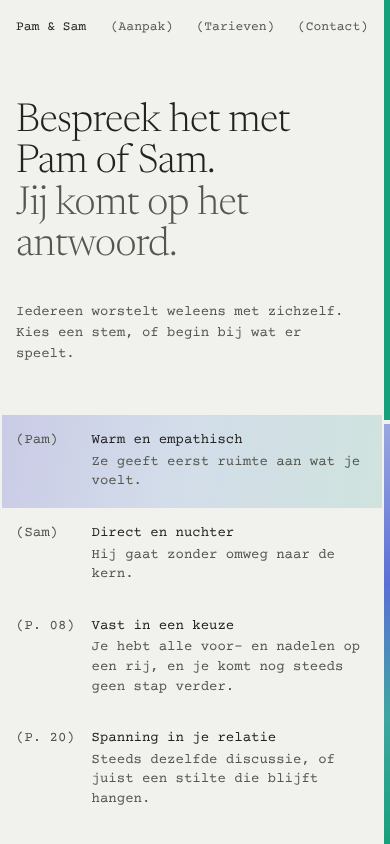
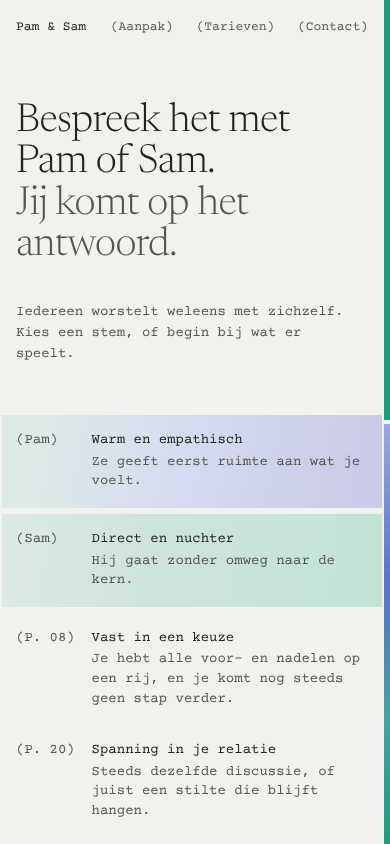
Register, tweede ronde: markeren als huisstijl, Pam en Sam gelijk, zachtere knoppen (55)
Claude-Session: https://claude.ai/code/session_01PHjJkCFpQsas3BAgmoVCiS

diff --git a/presentatie/route-katern/b-register.html b/presentatie/route-katern/b-register.html
@@ -16,8 +16,8 @@ h1.t span{display:block;color:#55574F}
 .rows{font-family:"Courier Prime",monospace;font-size:15px;line-height:1.4}
 .row{display:grid;grid-template-columns:8ch 1fr 9ch;column-gap:2ch;padding:16px 14px;margin:0 -14px}
 .row .n,.row .r{color:#55574F}.row .r{text-align:right}.row b{font-weight:400;display:block}.row span.d{color:#55574F;display:block;margin-top:2px}
-.row.mark{background:linear-gradient(100deg,#CACBE6,#D3DDEA 45%,#CFE3DE)}
-.row.go{margin-top:18px}.row.go b{background:#222321;color:#F1F1EE;display:inline-block;padding:10px 16px}
+.row.mk{margin-bottom:6px}
+.row.go{margin-top:18px}.bt{display:inline-block;font-family:"Courier Prime",monospace;font-size:15px;color:#222321;padding:11px 18px}.bt-s{border:1px solid #222321;padding:10px 17px}.bt-s span{padding:0 3px}
 .foot{position:absolute;left:5vw;bottom:4vh;font-family:"Courier Prime",monospace;font-size:12px;color:#55574F}
 /* info */
 .cols{display:grid;grid-template-columns:1fr 1fr 1fr;column-gap:3vw;margin-top:6vh}.cols p{font-family:Newsreader,serif;font-size:18px;line-height:1.6;color:#33342f}
@@ -29,16 +29,16 @@ h1.t span{display:block;color:#55574F}
 .e{display:grid;grid-template-columns:8ch 1fr;column-gap:2ch;padding:14px 14px;margin:0 -14px}.e .n{font-family:"Courier Prime",monospace;font-size:13px;color:#55574F;padding-top:5px}
 .e .v{font-size:19px;line-height:1.55}.e.v-ai .v{font-family:Newsreader,serif;color:#55574F}.sam .e.v-ai .v{font-family:"Hanken Grotesk",sans-serif;font-weight:300}
 .e.me .v{font-family:"Hanken Grotesk",sans-serif;font-weight:400;color:#222321}
-.e.now{background:linear-gradient(100deg,#CACBE6,#D3DDEA 45%,#CFE3DE)}.sam .e.now{background:linear-gradient(100deg,#DCEAE7,#CFE3DE)}
+.e.now{}
 .e.now .v{color:#222321}
 .ip{display:grid;grid-template-columns:8ch 1fr;column-gap:2ch;padding:22px 0 0}.ip .n{font-family:"Courier Prime",monospace;font-size:13px;color:#55574F;padding-top:12px}.ip .f{border-bottom:1px solid #222321;padding:10px 0;font-size:18px;color:#55574F}
-.ip .acts{grid-column:2;display:flex;justify-content:space-between;align-items:center;margin-top:16px;font-family:"Courier Prime",monospace;font-size:13px;color:#55574F}.ip .acts a.s{background:#222321;color:#F1F1EE;padding:10px 16px}
+.ip .acts{grid-column:2;display:flex;justify-content:space-between;align-items:center;margin-top:16px;font-family:"Courier Prime",monospace;font-size:13px;color:#55574F}.ip .acts .bt{font-size:13px;padding:9px 15px}.ip .acts .bt-s{padding:8px 14px}
 @media(max-width:760px){.pg{padding:20px 22px 40px 16px}.reg{grid-template-columns:1fr;margin-top:8vh}.rows{margin-top:6vh;font-size:14px}.row{grid-template-columns:8ch 1fr;column-gap:1ch}.row .r{display:none}
  .cols{grid-template-columns:1fr;row-gap:24px}.edge{width:6px}.e,.ip{grid-template-columns:1fr}.e .n,.ip .n{padding:0 0 2px}.e .v{font-size:16px}.foot{position:static;margin-top:6vh}.ip .acts{grid-column:1}}
 </style></head>
 <body data-s="home"><div class="scr" id="home"><div class="pg"><header class="hd"><b>Pam &amp; Sam</b><span>(Aanpak) &nbsp; (Tarieven) &nbsp; (Contact)</span></header><div class="reg"><div><h1 class="t">Bespreek het met Pam of Sam.<span>Jij komt op het antwoord.</span></h1><p class="intro">Iedereen worstelt weleens met zichzelf. Kies een stem, of begin bij wat er speelt.</p></div>
-<div class="rows"><div class="row mark"><span class="n">(Pam)</span><a><b>Warm en empathisch</b><span class="d">Ze geeft eerst ruimte aan wat je voelt.</span></a><span class="r">begin →</span></div><div class="row"><span class="n">(Sam)</span><a><b>Direct en nuchter</b><span class="d">Hij gaat zonder omweg naar de kern.</span></a><span class="r">begin →</span></div><div class="row"><span class="n">(P. 08)</span><a><b>Vast in een keuze</b><span class="d">Je hebt alle voor- en nadelen op een rij, en je komt nog steeds geen stap verder.</span></a><span class="r">lees</span></div><div class="row"><span class="n">(P. 20)</span><a><b>Spanning in je relatie</b><span class="d">Steeds dezelfde discussie, of juist een stilte die blijft hangen.</span></a><span class="r">lees</span></div><div class="row"><span class="n">(P. 32)</span><a><b>Werk wordt te veel</b><span class="d">Je lijst wordt langer, je energie korter.</span></a><span class="r">lees</span></div><div class="row"><span class="n">(P. 44)</span><a><b>Iets is voorbij</b><span class="d">Een baan, een huis, een gewoonte. Je weet nog niet wat ervoor in de plaats komt.</span></a><span class="r">lees</span></div><div class="row go"><span class="n">(→)</span><a><b>Probeer gratis</b></a><span class="r"></span></div></div></div><p class="foot">6 vragen gratis · geen creditcard · anoniem · gesprekken niet opgeslagen op onze servers</p><span class="edge"><i class="g"></i><i class="p"></i></span></div></div><div class="scr" id="info"><div class="pg"><header class="hd"><b>Pam &amp; Sam</b><span>(Aanpak) &nbsp; (Tarieven) &nbsp; (Contact)</span></header><div style="margin-top:14vh"><h1 class="t">Hoe het werkt.<span>Drie stappen. Niet meer.</span></h1></div>
+<div class="rows"><div class="row mk" style="background:linear-gradient(101deg,#DCEAE7 12%,#D5D9F2 52%,#CACBE6 95%)"><span class="n">(Pam)</span><a><b>Warm en empathisch</b><span class="d">Ze geeft eerst ruimte aan wat je voelt.</span></a><span class="r">begin →</span></div><div class="row mk" style="background:linear-gradient(93deg,#DCEAE7 1%,#CFE3DE 38%,#C3E3D6 97%)"><span class="n">(Sam)</span><a><b>Direct en nuchter</b><span class="d">Hij gaat zonder omweg naar de kern.</span></a><span class="r">begin →</span></div><div class="row"><span class="n">(P. 08)</span><a><b>Vast in een keuze</b><span class="d">Je hebt alle voor- en nadelen op een rij, en je komt nog steeds geen stap verder.</span></a><span class="r">lees</span></div><div class="row"><span class="n">(P. 20)</span><a><b>Spanning in je relatie</b><span class="d">Steeds dezelfde discussie, of juist een stilte die blijft hangen.</span></a><span class="r">lees</span></div><div class="row"><span class="n">(P. 32)</span><a><b>Werk wordt te veel</b><span class="d">Je lijst wordt langer, je energie korter.</span></a><span class="r">lees</span></div><div class="row"><span class="n">(P. 44)</span><a><b>Iets is voorbij</b><span class="d">Een baan, een huis, een gewoonte. Je weet nog niet wat ervoor in de plaats komt.</span></a><span class="r">lees</span></div><div class="row go"><span class="n">(→)</span><span><a class="bt bt-g" style="background:linear-gradient(107deg,#AEB2E4 5%,#C4D2EA 58%,#AFD8CA 96%)">Probeer gratis</a></span><span class="r"></span></div></div></div><p class="foot">6 vragen gratis · geen creditcard · anoniem · gesprekken niet opgeslagen op onze servers</p><span class="edge"><i class="g"></i><i class="p"></i></span></div></div><div class="scr" id="info"><div class="pg"><header class="hd"><b>Pam &amp; Sam</b><span>(Aanpak) &nbsp; (Tarieven) &nbsp; (Contact)</span></header><div style="margin-top:14vh"><h1 class="t">Hoe het werkt.<span>Drie stappen. Niet meer.</span></h1></div>
 <div class="cols"><p><span class="n">(01) Vertel wat er speelt</span>Schrijf het op zoals het in je hoofd zit. Pam of Sam luistert en vraagt door.</p><p><span class="n">(02) Beantwoord één vraag</span>Telkens één vraag. Geen advies, geen lijstjes. De vraag helpt je zelf verder.</p><p><span class="n">(03) Kies je eigen stap</span>Je gaat weg met één ding dat je vandaag nog kunt doen, in je eigen woorden.</p></div>
-<p class="q">“Wat je overkomt hoeft je leven niet te bepalen, je kunt kiezen hoe je erop reageert.”</p><p class="by">(Caren, adviseur bij Pam &amp; Sam)</p><span class="edge"><i class="g"></i><i class="p"></i></span></div></div><div class="scr" id="pam"><div class="pg pam"><header class="hd"><b>Pam</b><span>(Onderwerpen) &nbsp; (Terugblik) &nbsp; (×)</span></header><div class="chat"><div class="log"><div class="e v-ai"><span class="n">(01) Pam</span><p class="v">Fijn dat je er bent. Vertel me rustig wat er speelt.</p></div><div class="e me"><span class="n">(02) Jij</span><p class="v">Ik slaap slecht sinds de verhuizing. Het voelt alsof ik nergens thuis ben.</p></div><div class="e v-ai"><span class="n">(03) Pam</span><p class="v">Wat mis je het meest, als je eerlijk bent?</p></div><div class="e me"><span class="n">(04) Jij</span><p class="v">De buurt. Dat iemand me groette als ik naar buiten liep.</p></div><div class="e v-ai now"><span class="n">(05) Pam</span><p class="v">Wanneer voelde je je hier wél even gezien?</p></div></div>
-<div class="ip"><span class="n">(06) Jij</span><div class="f">Schrijf hier…</div><div class="acts"><a>(Wissel naar Sam)</a><a class="s">Verstuur →</a></div></div></div><span class="edge"><i class="g"></i><i class="p"></i></span></div></div><div class="scr" id="sam"><div class="pg sam"><header class="hd"><b>Sam</b><span>(Onderwerpen) &nbsp; (Terugblik) &nbsp; (×)</span></header><div class="chat"><div class="log"><div class="e v-ai"><span class="n">(01) Sam</span><p class="v">Vertel me wat er speelt.</p></div><div class="e me"><span class="n">(02) Jij</span><p class="v">Ik moet kiezen tussen een promotie en minder uren werken.</p></div><div class="e v-ai"><span class="n">(03) Sam</span><p class="v">Wat wil jij, los van wat anderen vinden?</p></div><div class="e me"><span class="n">(04) Jij</span><p class="v">Tijd. Ik wil mijn dochter van school halen.</p></div><div class="e v-ai now"><span class="n">(05) Sam</span><p class="v">Wat is dan je eerste stap?</p></div></div>
-<div class="ip"><span class="n">(06) Jij</span><div class="f">Schrijf hier…</div><div class="acts"><a>(Wissel naar Pam)</a><a class="s">Verstuur →</a></div></div></div><span class="edge"><i class="g"></i><i class="p"></i></span></div></div><script>const s=new URLSearchParams(location.search).get('s')||'home';document.body.dataset.s=s;</script></body></html>
+<p class="q">“Wat je overkomt hoeft je leven niet te bepalen, je kunt kiezen hoe je erop reageert.”</p><p class="by">(Caren, adviseur bij Pam &amp; Sam)</p><span class="edge"><i class="g"></i><i class="p"></i></span></div></div><div class="scr" id="pam"><div class="pg pam"><header class="hd"><b>Pam</b><span>(Onderwerpen) &nbsp; (Terugblik) &nbsp; (×)</span></header><div class="chat"><div class="log"><div class="e v-ai"><span class="n">(01) Pam</span><p class="v">Fijn dat je er bent. Vertel me rustig wat er speelt.</p></div><div class="e me"><span class="n">(02) Jij</span><p class="v">Ik slaap slecht sinds de verhuizing. Het voelt alsof ik nergens thuis ben.</p></div><div class="e v-ai"><span class="n">(03) Pam</span><p class="v">Wat mis je het meest, als je eerlijk bent?</p></div><div class="e me"><span class="n">(04) Jij</span><p class="v">De buurt. Dat iemand me groette als ik naar buiten liep.</p></div><div class="e v-ai now" style="background:linear-gradient(87deg,#DCEAE7 12%,#D5D9F2 50%,#CACBE6 90%)"><span class="n">(05) Pam</span><p class="v">Wanneer voelde je je hier wél even gezien?</p></div></div>
+<div class="ip"><span class="n">(06) Jij</span><div class="f">Schrijf hier…</div><div class="acts"><a>(Wissel naar Sam)</a><a class="bt bt-g" style="background:linear-gradient(97deg,#C9E0DA 8%,#C3CBEE 52%,#AEB2E4 97%)">Verstuur →</a></div></div></div><span class="edge"><i class="g"></i><i class="p"></i></span></div></div><div class="scr" id="sam"><div class="pg sam"><header class="hd"><b>Sam</b><span>(Onderwerpen) &nbsp; (Terugblik) &nbsp; (×)</span></header><div class="chat"><div class="log"><div class="e v-ai"><span class="n">(01) Sam</span><p class="v">Vertel me wat er speelt.</p></div><div class="e me"><span class="n">(02) Jij</span><p class="v">Ik moet kiezen tussen een promotie en minder uren werken.</p></div><div class="e v-ai"><span class="n">(03) Sam</span><p class="v">Wat wil jij, los van wat anderen vinden?</p></div><div class="e me"><span class="n">(04) Jij</span><p class="v">Tijd. Ik wil mijn dochter van school halen.</p></div><div class="e v-ai now" style="background:linear-gradient(87deg,#C3E3D6 12%,#CFE3DE 50%,#DCEAE7 90%)"><span class="n">(05) Sam</span><p class="v">Wat is dan je eerste stap?</p></div></div>
+<div class="ip"><span class="n">(06) Jij</span><div class="f">Schrijf hier…</div><div class="acts"><a>(Wissel naar Pam)</a><a class="bt bt-g" style="background:linear-gradient(97deg,#9FD3BF 8%,#AFD8CA 52%,#C9E0DA 97%)">Verstuur →</a></div></div></div><span class="edge"><i class="g"></i><i class="p"></i></span></div></div><script>const s=new URLSearchParams(location.search).get('s')||'home';document.body.dataset.s=s;</script></body></html>

diff --git a/presentatie/route-katern/b-register-lijn.html b/presentatie/route-katern/b-register-lijn.html
@@ -1,0 +1,44 @@
+<!doctype html><html lang="nl"><head><meta charset="utf-8"><meta name="viewport" content="width=device-width,initial-scale=1"><title>Pam &amp; Sam · Het register</title><link rel="stylesheet" href="https://fonts.googleapis.com/css2?family=Newsreader:opsz,wght@6..72,300..500&family=Courier+Prime&family=Hanken+Grotesk:wght@300;400&display=swap"><style>*{box-sizing:border-box;margin:0;padding:0}a{color:inherit;text-decoration:none}ol,ul{list-style:none}
+.scr{display:none}body[data-s=home] #home,body[data-s=info] #info,body[data-s=pam] #pam,body[data-s=sam] #sam{display:block}
+body{background:#E7E7E4;color:#222321;-webkit-font-smoothing:antialiased;font-family:"Hanken Grotesk",sans-serif;font-weight:300}
+.mono{font-family:"Courier Prime",ui-monospace,monospace;font-weight:400}.serif{font-family:Newsreader,Georgia,serif}
+.cloud{display:block;width:100%;height:100%}
+
+body{background:#F1F1EE}
+.pg{min-height:100vh;position:relative;padding:4vh 5vw 6vh 5vw}
+.edge{position:fixed;top:0;bottom:0;right:0;width:10px;display:flex;flex-direction:column;gap:4px}.edge i{flex:1}.edge .g{background:#17A07C}.edge .p{background:linear-gradient(180deg,#9AA7E0 0%,#5B6FD6 38%,#3EA6A0 70%,#17A07C 100%)}
+.pam .edge .g,.sam .edge .p{opacity:.18}
+.hd{display:flex;justify-content:space-between;font-family:"Courier Prime",monospace;font-size:13px;color:#55574F}.hd b{font-weight:400;color:#222321}
+.reg{display:grid;grid-template-columns:minmax(0,1fr) minmax(0,1.25fr);column-gap:6vw;margin-top:14vh}
+h1.t{font-family:Newsreader,serif;font-weight:300;font-size:clamp(40px,4.6vw,72px);line-height:1.04;letter-spacing:-.015em}
+h1.t span{display:block;color:#55574F}
+.intro{font-family:"Courier Prime",monospace;font-size:14px;line-height:1.5;color:#55574F;margin-top:4vh;max-width:40ch}
+.rows{font-family:"Courier Prime",monospace;font-size:15px;line-height:1.4}
+.row{display:grid;grid-template-columns:8ch 1fr 9ch;column-gap:2ch;padding:16px 14px;margin:0 -14px}
+.row .n,.row .r{color:#55574F}.row .r{text-align:right}.row b{font-weight:400;display:block}.row span.d{color:#55574F;display:block;margin-top:2px}
+.row.mk{margin-bottom:6px}
+.row.go{margin-top:18px}.bt{display:inline-block;font-family:"Courier Prime",monospace;font-size:15px;color:#222321;padding:11px 18px}.bt-s{border:1px solid #222321;padding:10px 17px}.bt-s span{padding:0 3px}
+.foot{position:absolute;left:5vw;bottom:4vh;font-family:"Courier Prime",monospace;font-size:12px;color:#55574F}
+/* info */
+.cols{display:grid;grid-template-columns:1fr 1fr 1fr;column-gap:3vw;margin-top:6vh}.cols p{font-family:Newsreader,serif;font-size:18px;line-height:1.6;color:#33342f}
+.cols .n{font-family:"Courier Prime",monospace;font-size:13px;color:#55574F;display:block;margin-bottom:10px}
+.q{font-family:Newsreader,serif;font-size:clamp(26px,2.6vw,38px);line-height:1.25;max-width:30ch;margin-top:10vh}.q + .by{font-family:"Courier Prime",monospace;font-size:13px;color:#55574F;margin-top:14px}
+/* kamer */
+.chat{max-width:760px;margin:0 auto;min-height:calc(100vh - 10vh);display:flex;flex-direction:column}
+.chat .log{flex:1;display:flex;flex-direction:column;justify-content:flex-end;padding-top:8vh}
+.e{display:grid;grid-template-columns:8ch 1fr;column-gap:2ch;padding:14px 14px;margin:0 -14px}.e .n{font-family:"Courier Prime",monospace;font-size:13px;color:#55574F;padding-top:5px}
+.e .v{font-size:19px;line-height:1.55}.e.v-ai .v{font-family:Newsreader,serif;color:#55574F}.sam .e.v-ai .v{font-family:"Hanken Grotesk",sans-serif;font-weight:300}
+.e.me .v{font-family:"Hanken Grotesk",sans-serif;font-weight:400;color:#222321}
+.e.now{}
+.e.now .v{color:#222321}
+.ip{display:grid;grid-template-columns:8ch 1fr;column-gap:2ch;padding:22px 0 0}.ip .n{font-family:"Courier Prime",monospace;font-size:13px;color:#55574F;padding-top:12px}.ip .f{border-bottom:1px solid #222321;padding:10px 0;font-size:18px;color:#55574F}
+.ip .acts{grid-column:2;display:flex;justify-content:space-between;align-items:center;margin-top:16px;font-family:"Courier Prime",monospace;font-size:13px;color:#55574F}.ip .acts .bt{font-size:13px;padding:9px 15px}.ip .acts .bt-s{padding:8px 14px}
+@media(max-width:760px){.pg{padding:20px 22px 40px 16px}.reg{grid-template-columns:1fr;margin-top:8vh}.rows{margin-top:6vh;font-size:14px}.row{grid-template-columns:8ch 1fr;column-gap:1ch}.row .r{display:none}
+ .cols{grid-template-columns:1fr;row-gap:24px}.edge{width:6px}.e,.ip{grid-template-columns:1fr}.e .n,.ip .n{padding:0 0 2px}.e .v{font-size:16px}.foot{position:static;margin-top:6vh}.ip .acts{grid-column:1}}
+</style></head>
+<body data-s="home"><div class="scr" id="home"><div class="pg"><header class="hd"><b>Pam &amp; Sam</b><span>(Aanpak) &nbsp; (Tarieven) &nbsp; (Contact)</span></header><div class="reg"><div><h1 class="t">Bespreek het met Pam of Sam.<span>Jij komt op het antwoord.</span></h1><p class="intro">Iedereen worstelt weleens met zichzelf. Kies een stem, of begin bij wat er speelt.</p></div>
+<div class="rows"><div class="row mk" style="background:linear-gradient(101deg,#DCEAE7 12%,#D5D9F2 52%,#CACBE6 95%)"><span class="n">(Pam)</span><a><b>Warm en empathisch</b><span class="d">Ze geeft eerst ruimte aan wat je voelt.</span></a><span class="r">begin →</span></div><div class="row mk" style="background:linear-gradient(93deg,#DCEAE7 1%,#CFE3DE 38%,#C3E3D6 97%)"><span class="n">(Sam)</span><a><b>Direct en nuchter</b><span class="d">Hij gaat zonder omweg naar de kern.</span></a><span class="r">begin →</span></div><div class="row"><span class="n">(P. 08)</span><a><b>Vast in een keuze</b><span class="d">Je hebt alle voor- en nadelen op een rij, en je komt nog steeds geen stap verder.</span></a><span class="r">lees</span></div><div class="row"><span class="n">(P. 20)</span><a><b>Spanning in je relatie</b><span class="d">Steeds dezelfde discussie, of juist een stilte die blijft hangen.</span></a><span class="r">lees</span></div><div class="row"><span class="n">(P. 32)</span><a><b>Werk wordt te veel</b><span class="d">Je lijst wordt langer, je energie korter.</span></a><span class="r">lees</span></div><div class="row"><span class="n">(P. 44)</span><a><b>Iets is voorbij</b><span class="d">Een baan, een huis, een gewoonte. Je weet nog niet wat ervoor in de plaats komt.</span></a><span class="r">lees</span></div><div class="row go"><span class="n">(→)</span><span><a class="bt bt-s"><span style="background-image:linear-gradient(107deg,#AEB2E4 5%,#C4D2EA 58%,#AFD8CA 96%);background-size:100% 62%;background-position:0 85%;background-repeat:no-repeat">Probeer gratis</span></a></span><span class="r"></span></div></div></div><p class="foot">6 vragen gratis · geen creditcard · anoniem · gesprekken niet opgeslagen op onze servers</p><span class="edge"><i class="g"></i><i class="p"></i></span></div></div><div class="scr" id="info"><div class="pg"><header class="hd"><b>Pam &amp; Sam</b><span>(Aanpak) &nbsp; (Tarieven) &nbsp; (Contact)</span></header><div style="margin-top:14vh"><h1 class="t">Hoe het werkt.<span>Drie stappen. Niet meer.</span></h1></div>
+<div class="cols"><p><span class="n">(01) Vertel wat er speelt</span>Schrijf het op zoals het in je hoofd zit. Pam of Sam luistert en vraagt door.</p><p><span class="n">(02) Beantwoord één vraag</span>Telkens één vraag. Geen advies, geen lijstjes. De vraag helpt je zelf verder.</p><p><span class="n">(03) Kies je eigen stap</span>Je gaat weg met één ding dat je vandaag nog kunt doen, in je eigen woorden.</p></div>
+<p class="q">“Wat je overkomt hoeft je leven niet te bepalen, je kunt kiezen hoe je erop reageert.”</p><p class="by">(Caren, adviseur bij Pam &amp; Sam)</p><span class="edge"><i class="g"></i><i class="p"></i></span></div></div><div class="scr" id="pam"><div class="pg pam"><header class="hd"><b>Pam</b><span>(Onderwerpen) &nbsp; (Terugblik) &nbsp; (×)</span></header><div class="chat"><div class="log"><div class="e v-ai"><span class="n">(01) Pam</span><p class="v">Fijn dat je er bent. Vertel me rustig wat er speelt.</p></div><div class="e me"><span class="n">(02) Jij</span><p class="v">Ik slaap slecht sinds de verhuizing. Het voelt alsof ik nergens thuis ben.</p></div><div class="e v-ai"><span class="n">(03) Pam</span><p class="v">Wat mis je het meest, als je eerlijk bent?</p></div><div class="e me"><span class="n">(04) Jij</span><p class="v">De buurt. Dat iemand me groette als ik naar buiten liep.</p></div><div class="e v-ai now" style="background:linear-gradient(87deg,#DCEAE7 12%,#D5D9F2 50%,#CACBE6 90%)"><span class="n">(05) Pam</span><p class="v">Wanneer voelde je je hier wél even gezien?</p></div></div>
+<div class="ip"><span class="n">(06) Jij</span><div class="f">Schrijf hier…</div><div class="acts"><a>(Wissel naar Sam)</a><a class="bt bt-s"><span style="background-image:linear-gradient(97deg,#C9E0DA 8%,#C3CBEE 52%,#AEB2E4 97%);background-size:100% 62%;background-position:0 85%;background-repeat:no-repeat">Verstuur →</span></a></div></div></div><span class="edge"><i class="g"></i><i class="p"></i></span></div></div><div class="scr" id="sam"><div class="pg sam"><header class="hd"><b>Sam</b><span>(Onderwerpen) &nbsp; (Terugblik) &nbsp; (×)</span></header><div class="chat"><div class="log"><div class="e v-ai"><span class="n">(01) Sam</span><p class="v">Vertel me wat er speelt.</p></div><div class="e me"><span class="n">(02) Jij</span><p class="v">Ik moet kiezen tussen een promotie en minder uren werken.</p></div><div class="e v-ai"><span class="n">(03) Sam</span><p class="v">Wat wil jij, los van wat anderen vinden?</p></div><div class="e me"><span class="n">(04) Jij</span><p class="v">Tijd. Ik wil mijn dochter van school halen.</p></div><div class="e v-ai now" style="background:linear-gradient(87deg,#C3E3D6 12%,#CFE3DE 50%,#DCEAE7 90%)"><span class="n">(05) Sam</span><p class="v">Wat is dan je eerste stap?</p></div></div>
+<div class="ip"><span class="n">(06) Jij</span><div class="f">Schrijf hier…</div><div class="acts"><a>(Wissel naar Pam)</a><a class="bt bt-s"><span style="background-image:linear-gradient(97deg,#9FD3BF 8%,#AFD8CA 52%,#C9E0DA 97%);background-size:100% 62%;background-position:0 85%;background-repeat:no-repeat">Verstuur →</span></a></div></div></div><span class="edge"><i class="g"></i><i class="p"></i></span></div></div><script>const s=new URLSearchParams(location.search).get('s')||'home';document.body.dataset.s=s;</script></body></html>

diff --git a/presentatie/route-katern/markeringen.html b/presentatie/route-katern/markeringen.html
@@ -1,0 +1,9 @@
+<!doctype html><html lang="nl"><head><meta charset="utf-8"><link rel="stylesheet" href="https://fonts.googleapis.com/css2?family=Newsreader:opsz,wght@6..72,300..500&family=Courier+Prime&family=Hanken+Grotesk:wght@300;400&display=swap"><style>*{box-sizing:border-box;margin:0;padding:0}a{color:inherit;text-decoration:none}ol,ul{list-style:none}
+.scr{display:none}body[data-s=home] #home,body[data-s=info] #info,body[data-s=pam] #pam,body[data-s=sam] #sam{display:block}
+body{background:#E7E7E4;color:#222321;-webkit-font-smoothing:antialiased;font-family:"Hanken Grotesk",sans-serif;font-weight:300}
+.mono{font-family:"Courier Prime",ui-monospace,monospace;font-weight:400}.serif{font-family:Newsreader,Georgia,serif}
+.cloud{display:block;width:100%;height:100%}
+
+body{background:#F1F1EE;padding:56px 64px}.r{display:flex;flex-wrap:wrap;gap:18px;margin-bottom:40px}
+.bt{display:inline-block;font-family:"Courier Prime",monospace;font-size:15px;color:#222321;padding:11px 18px}.bt-s{border:1px solid #222321;padding:10px 17px}.bt-s span{padding:0 3px}
+p.z{font-family:Newsreader,serif;font-size:30px;line-height:1.5;max-width:40ch}</style></head><body><div class="r"><a class="bt bt-g" style="background:linear-gradient(101deg,#AFD8CA 2%,#C4D2EA 49%,#AEB2E4 97%)">Probeer gratis</a><a class="bt bt-g" style="background:linear-gradient(97deg,#AEB2E4 7%,#C3CBEE 56%,#C9E0DA 88%)">Begin bij Pam</a><a class="bt bt-g" style="background:linear-gradient(109deg,#C9E0DA 4%,#AFD8CA 49%,#9FD3BF 92%)">Begin bij Sam</a><a class="bt bt-g" style="background:linear-gradient(110deg,#AEB2E4 9%,#C3CBEE 43%,#C9E0DA 91%)">Verstuur →</a><a class="bt bt-g" style="background:linear-gradient(87deg,#9FD3BF 12%,#AFD8CA 50%,#C9E0DA 90%)">Verstuur →</a><a class="bt bt-g" style="background:linear-gradient(97deg,#AEB2E4 12%,#C4D2EA 41%,#AFD8CA 89%)">Versturen</a></div><div class="r"><a class="bt bt-s"><span style="background-image:linear-gradient(101deg,#AFD8CA 2%,#C4D2EA 49%,#AEB2E4 97%);background-size:100% 62%;background-position:0 85%;background-repeat:no-repeat">Probeer gratis</span></a><a class="bt bt-s"><span style="background-image:linear-gradient(97deg,#AEB2E4 7%,#C3CBEE 56%,#C9E0DA 88%);background-size:100% 62%;background-position:0 85%;background-repeat:no-repeat">Begin bij Pam</span></a><a class="bt bt-s"><span style="background-image:linear-gradient(109deg,#C9E0DA 4%,#AFD8CA 49%,#9FD3BF 92%);background-size:100% 62%;background-position:0 85%;background-repeat:no-repeat">Begin bij Sam</span></a><a class="bt bt-s"><span style="background-image:linear-gradient(110deg,#AEB2E4 9%,#C3CBEE 43%,#C9E0DA 91%);background-size:100% 62%;background-position:0 85%;background-repeat:no-repeat">Verstuur →</span></a><a class="bt bt-s"><span style="background-image:linear-gradient(87deg,#9FD3BF 12%,#AFD8CA 50%,#C9E0DA 90%);background-size:100% 62%;background-position:0 85%;background-repeat:no-repeat">Verstuur →</span></a><a class="bt bt-s"><span style="background-image:linear-gradient(97deg,#AEB2E4 12%,#C4D2EA 41%,#AFD8CA 89%);background-size:100% 62%;background-position:0 85%;background-repeat:no-repeat">Versturen</span></a></div><p class="z">Pam en Sam geven je geen <span style="background-image:linear-gradient(101deg,#CFE3DE 3%,#D3DDEA 48%,#CACBE6 92%);background-size:100% 48%;background-position:0 92%;background-repeat:no-repeat;padding:0 2px">kant-en-klaar antwoord</span>. Ze stellen de vraag <span style="background-image:linear-gradient(100deg,#DCEAE7 7%,#D5D9F2 56%,#CACBE6 90%);background-size:100% 48%;background-position:0 92%;background-repeat:no-repeat;padding:0 2px">die je zelf verder helpt</span>, en je gaat weg met <span style="background-image:linear-gradient(103deg,#C3E3D6 11%,#CFE3DE 46%,#DCEAE7 90%);background-size:100% 48%;background-position:0 92%;background-repeat:no-repeat;padding:0 2px">één stap in je eigen woorden</span>.</p></body></html>

diff --git a/presentatie/route-katern/bord-register-2.html b/presentatie/route-katern/bord-register-2.html
@@ -1,0 +1,9 @@
+<!doctype html><html lang="nl"><head><meta charset="utf-8"><link rel="stylesheet" href="https://fonts.googleapis.com/css2?family=Hanken+Grotesk:wght@300;500&display=swap"><style>*{box-sizing:border-box;margin:0;padding:0}body{background:#fff;color:#262626;font-family:"Hanken Grotesk",sans-serif;font-weight:300;padding:72px 80px 96px}
+h1{font-size:44px;font-weight:300;line-height:1.15;margin-bottom:24px}p{font-size:24px;line-height:1.45;max-width:46ch;margin-bottom:56px}
+.g2{display:grid;grid-template-columns:1fr 1fr;gap:24px}.g4{display:grid;grid-template-columns:repeat(4,1fr);gap:24px;margin-top:24px}
+img{display:block;width:100%}.cap{font-size:18px;line-height:1.45;margin:16px 0 64px;max-width:70ch}</style></head><body>
+<h1>Het register, tweede ronde</h1><p>Markeren wordt de huisstijl. Elke markering is een eigen, net iets andere versie van het verloop, zoals een markeerstift nooit twee keer hetzelfde trekt. Pam en Sam staan even sterk bovenaan, elk met hun eigen markering.</p>
+<div class="g2"><img src="b-register-home-d.png"><img src="b-register-lijn-home-d.png"></div><p class="cap">Links de knop gevuld met het verloop, rechts een dunne lijn met een markeerstreep door de tekst. Pam markeert van lavendel naar ijs, Sam van ijs naar mint.</p>
+<div class="g2"><img src="b-register-pam-d.png"><img src="b-register-lijn-sam-d.png"></div><p class="cap">In het gesprek krijgt alleen de laatste vraag een markering, in de kleur van de stem. De verstuurknop volgt dezelfde stem.</p>
+<img src="markeringen.png"><p class="cap">Een staal: zes knoppen in beide stijlen en markeringen in lopende tekst, elk net anders. De knoppen zijn een tint dieper dan de markeringen, zodat ze opvallen zonder hard te worden.</p>
+<div class="g4"><img src="b-register-home-m.png"><img src="b-register-lijn-home-m.png"><img src="b-register-pam-m.png"><img src="b-register-lijn-sam-m.png"></div><p class="cap">Op de telefoon staan Pam en Sam als eerste twee regels, direct onder de kop.</p></body></html>

diff --git a/presentatie/route-katern/bouw.py b/presentatie/route-katern/bouw.py
@@ -105,6 +105,20 @@ def a_build():
 <body data-s="home"><div class="scr" id="home">{home}</div><div class="scr" id="info">{info}</div><div class="scr" id="pam">{room('pam', PAMLOG)}</div><div class="scr" id="sam">{room('sam', SAMLOG)}</div>{SWITCH}</body></html>'''
     open(os.path.join(D, 'a-katern.html'), 'w').write(html)
 
+
+import random
+FAM = {'pam': ['#CACBE6', '#D5D9F2', '#DCEAE7'], 'sam': ['#DCEAE7', '#CFE3DE', '#C3E3D6'], 'mix': ['#CACBE6', '#D3DDEA', '#CFE3DE'],
+       'pamB': ['#AEB2E4', '#C3CBEE', '#C9E0DA'], 'samB': ['#C9E0DA', '#AFD8CA', '#9FD3BF'], 'mixB': ['#AEB2E4', '#C4D2EA', '#AFD8CA']}
+def mark(seed, fam='mix'):
+    r = random.Random(seed); c = FAM[fam][:]
+    if r.random() < .5: c.reverse()
+    a = r.randint(84, 112); s1 = r.randint(0, 12); s2 = r.randint(38, 58); s3 = r.randint(88, 100)
+    return f'linear-gradient({a}deg,{c[0]} {s1}%,{c[1]} {s2}%,{c[2]} {s3}%)'
+def btn(label, seed, style, fam='mix'):
+    if style == 'grad':
+        return f'<a class="bt bt-g" style="background:{mark(seed, fam + "B")}">{label}</a>'
+    return f'<a class="bt bt-s"><span style="background-image:{mark(seed, fam + "B")};background-size:100% 62%;background-position:0 85%;background-repeat:no-repeat">{label}</span></a>'
+
 # ================= B · HET REGISTER =================
 B_CSS = COMMON + f'''
 body{{background:{SHEET}}}
@@ -119,8 +133,8 @@ h1.t span{{display:block;color:{SOFT}}}
 .rows{{font-family:"Courier Prime",monospace;font-size:15px;line-height:1.4}}
 .row{{display:grid;grid-template-columns:8ch 1fr 9ch;column-gap:2ch;padding:16px 14px;margin:0 -14px}}
 .row .n,.row .r{{color:{SOFT}}}.row .r{{text-align:right}}.row b{{font-weight:400;display:block}}.row span.d{{color:{SOFT};display:block;margin-top:2px}}
-.row.mark{{background:linear-gradient(100deg,{LAV},#D3DDEA 45%,{MINT})}}
-.row.go{{margin-top:18px}}.row.go b{{background:{INK};color:{SHEET};display:inline-block;padding:10px 16px}}
+.row.mk{{margin-bottom:6px}}
+.row.go{{margin-top:18px}}.bt{{display:inline-block;font-family:"Courier Prime",monospace;font-size:15px;color:{INK};padding:11px 18px}}.bt-s{{border:1px solid {INK};padding:10px 17px}}.bt-s span{{padding:0 3px}}
 .foot{{position:absolute;left:5vw;bottom:4vh;font-family:"Courier Prime",monospace;font-size:12px;color:{SOFT}}}
 /* info */
 .cols{{display:grid;grid-template-columns:1fr 1fr 1fr;column-gap:3vw;margin-top:6vh}}.cols p{{font-family:Newsreader,serif;font-size:18px;line-height:1.6;color:#33342f}}
@@ -132,20 +146,20 @@ h1.t span{{display:block;color:{SOFT}}}
 .e{{display:grid;grid-template-columns:8ch 1fr;column-gap:2ch;padding:14px 14px;margin:0 -14px}}.e .n{{font-family:"Courier Prime",monospace;font-size:13px;color:{SOFT};padding-top:5px}}
 .e .v{{font-size:19px;line-height:1.55}}.e.v-ai .v{{font-family:Newsreader,serif;color:{SOFT}}}.sam .e.v-ai .v{{font-family:"Hanken Grotesk",sans-serif;font-weight:300}}
 .e.me .v{{font-family:"Hanken Grotesk",sans-serif;font-weight:400;color:{INK}}}
-.e.now{{background:linear-gradient(100deg,{LAV},#D3DDEA 45%,{MINT})}}.sam .e.now{{background:linear-gradient(100deg,{ICE},{MINT})}}
+.e.now{{}}
 .e.now .v{{color:{INK}}}
 .ip{{display:grid;grid-template-columns:8ch 1fr;column-gap:2ch;padding:22px 0 0}}.ip .n{{font-family:"Courier Prime",monospace;font-size:13px;color:{SOFT};padding-top:12px}}.ip .f{{border-bottom:1px solid {INK};padding:10px 0;font-size:18px;color:{SOFT}}}
-.ip .acts{{grid-column:2;display:flex;justify-content:space-between;align-items:center;margin-top:16px;font-family:"Courier Prime",monospace;font-size:13px;color:{SOFT}}}.ip .acts a.s{{background:{INK};color:{SHEET};padding:10px 16px}}
+.ip .acts{{grid-column:2;display:flex;justify-content:space-between;align-items:center;margin-top:16px;font-family:"Courier Prime",monospace;font-size:13px;color:{SOFT}}}.ip .acts .bt{{font-size:13px;padding:9px 15px}}.ip .acts .bt-s{{padding:8px 14px}}
 @media(max-width:760px){{.pg{{padding:20px 22px 40px 16px}}.reg{{grid-template-columns:1fr;margin-top:8vh}}.rows{{margin-top:6vh;font-size:14px}}.row{{grid-template-columns:8ch 1fr;column-gap:1ch}}.row .r{{display:none}}
  .cols{{grid-template-columns:1fr;row-gap:24px}}.edge{{width:6px}}.e,.ip{{grid-template-columns:1fr}}.e .n,.ip .n{{padding:0 0 2px}}.e .v{{font-size:16px}}.foot{{position:static;margin-top:6vh}}.ip .acts{{grid-column:1}}}}
 '''
-def b_build():
+def b_build(style='grad'):
     edge = '<span class="edge"><i class="g"></i><i class="p"></i></span>'
     hd = '<header class="hd"><b>Pam &amp; Sam</b><span>(Aanpak) &nbsp; (Tarieven) &nbsp; (Contact)</span></header>'
-    rows = (f'<div class="row mark"><span class="n">(Pam)</span><a><b>Warm en empathisch</b><span class="d">Ze geeft eerst ruimte aan wat je voelt.</span></a><span class="r">begin →</span></div>'
-            f'<div class="row"><span class="n">(Sam)</span><a><b>Direct en nuchter</b><span class="d">Hij gaat zonder omweg naar de kern.</span></a><span class="r">begin →</span></div>'
+    rows = (f'<div class="row mk" style="background:{mark(11, "pam")}"><span class="n">(Pam)</span><a><b>Warm en empathisch</b><span class="d">Ze geeft eerst ruimte aan wat je voelt.</span></a><span class="r">begin →</span></div>'
+            f'<div class="row mk" style="background:{mark(23, "sam")}"><span class="n">(Sam)</span><a><b>Direct en nuchter</b><span class="d">Hij gaat zonder omweg naar de kern.</span></a><span class="r">begin →</span></div>'
             + ''.join(f'<div class="row"><span class="n">(P. {i*12+8:02d})</span><a><b>{t}</b><span class="d">{d}</span></a><span class="r">lees</span></div>' for i, (t, d) in enumerate(TOPICS))
-            + '<div class="row go"><span class="n">(→)</span><a><b>Probeer gratis</b></a><span class="r"></span></div>')
+            + f'<div class="row go"><span class="n">(→)</span><span>{btn("Probeer gratis", 5, style)}</span><span class="r"></span></div>')
     home = f'''<div class="pg">{hd}<div class="reg"><div><h1 class="t">Bespreek het met Pam of Sam.<span>Jij komt op het antwoord.</span></h1><p class="intro">Iedereen worstelt weleens met zichzelf. Kies een stem, of begin bij wat er speelt.</p></div>
 <div class="rows">{rows}</div></div><p class="foot">{DISC}</p>{edge}</div>'''
     info = f'''<div class="pg">{hd}<div style="margin-top:14vh"><h1 class="t">Hoe het werkt.<span>Drie stappen. Niet meer.</span></h1></div>
@@ -153,14 +167,14 @@ def b_build():
 <p class="q">“Wat je overkomt hoeft je leven niet te bepalen, je kunt kiezen hoe je erop reageert.”</p><p class="by">(Caren, adviseur bij Pam &amp; Sam)</p>{edge}</div>'''
     def room(v, log):
         nm = 'Pam' if v == 'pam' else 'Sam'; ot = 'Sam' if v == 'pam' else 'Pam'
-        ents = ''.join(f'<div class="e {"me" if w == "Jij" else "v-ai"}{" now" if i == len(log)-1 else ""}"><span class="n">({i+1:02d}) {w}</span><p class="v">{x}</p></div>' for i, (w, x) in enumerate(log))
+        ents = ''.join(f'<div class="e {"me" if w == "Jij" else "v-ai"}{" now" if i == len(log)-1 else ""}"' + (f' style="background:{mark(31, v)}"' if i == len(log)-1 else '') + f'><span class="n">({i+1:02d}) {w}</span><p class="v">{x}</p></div>' for i, (w, x) in enumerate(log))
         return f'''<div class="pg {v}"><header class="hd"><b>{nm}</b><span>(Onderwerpen) &nbsp; (Terugblik) &nbsp; (×)</span></header><div class="chat"><div class="log">{ents}</div>
-<div class="ip"><span class="n">({len(log)+1:02d}) Jij</span><div class="f">Schrijf hier…</div><div class="acts"><a>(Wissel naar {ot})</a><a class="s">Verstuur →</a></div></div></div>{edge}</div>'''
+<div class="ip"><span class="n">({len(log)+1:02d}) Jij</span><div class="f">Schrijf hier…</div><div class="acts"><a>(Wissel naar {ot})</a>{btn('Verstuur →', 47, style, v)}</div></div></div>{edge}</div>'''
     html = f'''<!doctype html><html lang="nl"><head><meta charset="utf-8"><meta name="viewport" content="width=device-width,initial-scale=1"><title>Pam &amp; Sam · Het register</title>{FONTS}<style>{B_CSS}</style></head>
 <body data-s="home"><div class="scr" id="home">{home}</div><div class="scr" id="info">{info}</div><div class="scr" id="pam">{room('pam', PAMLOG)}</div><div class="scr" id="sam">{room('sam', SAMLOG)}</div>{SWITCH}</body></html>'''
-    open(os.path.join(D, 'b-register.html'), 'w').write(html)
+    open(os.path.join(D, 'b-register.html' if style == 'grad' else 'b-register-lijn.html'), 'w').write(html)
 
-a_build(); b_build()
+a_build(); b_build('grad'); b_build('lijn')
 for nm, a, b in [('zachte tekst op vel', SOFT, SHEET), ('zachte tekst op mint', SOFT, MINT), ('zachte tekst op lavendel', SOFT, LAV), ('inkt op lavendel', INK, LAV),
                  ('wit op mint (alleen woordmerk)', '#FFFFFF', MINT), ('groene strook naast vel', GREEN, SHEET)]:
     print(f'{nm}: {CR(a, b):.2f}:1')

diff --git a/presentatie/route-katern/markeringen.py b/presentatie/route-katern/markeringen.py
@@ -1,0 +1,14 @@
+"""Een staal van de markering als huisstijl: telkens een andere, vaste variant."""
+import importlib.util, io, contextlib, os
+spec = importlib.util.spec_from_file_location('b', 'bouw.py')
+with contextlib.redirect_stdout(io.StringIO()):
+    b = importlib.util.module_from_spec(spec); spec.loader.exec_module(b)
+g = ''.join(b.btn(t, i * 7 + 3, 'grad', f) for i, (t, f) in enumerate([('Probeer gratis', 'mix'), ('Begin bij Pam', 'pam'), ('Begin bij Sam', 'sam'), ('Verstuur →', 'pam'), ('Verstuur →', 'sam'), ('Versturen', 'mix')]))
+l = ''.join(b.btn(t, i * 7 + 3, 'lijn', f) for i, (t, f) in enumerate([('Probeer gratis', 'mix'), ('Begin bij Pam', 'pam'), ('Begin bij Sam', 'sam'), ('Verstuur →', 'pam'), ('Verstuur →', 'sam'), ('Versturen', 'mix')]))
+w = lambda txt, seed, fam: f'<span style="background-image:{b.mark(seed, fam)};background-size:100% 48%;background-position:0 92%;background-repeat:no-repeat;padding:0 2px">{txt}</span>'
+zin = f'Pam en Sam geven je geen {w("kant-en-klaar antwoord", 61, "mix")}. Ze stellen de vraag {w("die je zelf verder helpt", 73, "pam")}, en je gaat weg met {w("één stap in je eigen woorden", 89, "sam")}.'
+html = f'''<!doctype html><html lang="nl"><head><meta charset="utf-8">{b.FONTS}<style>{b.COMMON}
+body{{background:{b.SHEET};padding:56px 64px}}.r{{display:flex;flex-wrap:wrap;gap:18px;margin-bottom:40px}}
+.bt{{display:inline-block;font-family:"Courier Prime",monospace;font-size:15px;color:{b.INK};padding:11px 18px}}.bt-s{{border:1px solid {b.INK};padding:10px 17px}}.bt-s span{{padding:0 3px}}
+p.z{{font-family:Newsreader,serif;font-size:30px;line-height:1.5;max-width:40ch}}</style></head><body><div class="r">{g}</div><div class="r">{l}</div><p class="z">{zin}</p></body></html>'''
+open('markeringen.html', 'w').write(html)

diff --git a/presentatie/route-katern/bord2.py b/presentatie/route-katern/bord2.py
@@ -1,0 +1,8 @@
+CSS = open('bord.py').read().split("CSS = '''")[1].split("'''")[0]
+html = f'''<!doctype html><html lang="nl"><head><meta charset="utf-8"><link rel="stylesheet" href="https://fonts.googleapis.com/css2?family=Hanken+Grotesk:wght@300;500&display=swap"><style>{CSS}</style></head><body>
+<h1>Het register, tweede ronde</h1><p>Markeren wordt de huisstijl. Elke markering is een eigen, net iets andere versie van het verloop, zoals een markeerstift nooit twee keer hetzelfde trekt. Pam en Sam staan even sterk bovenaan, elk met hun eigen markering.</p>
+<div class="g2"><img src="b-register-home-d.png"><img src="b-register-lijn-home-d.png"></div><p class="cap">Links de knop gevuld met het verloop, rechts een dunne lijn met een markeerstreep door de tekst. Pam markeert van lavendel naar ijs, Sam van ijs naar mint.</p>
+<div class="g2"><img src="b-register-pam-d.png"><img src="b-register-lijn-sam-d.png"></div><p class="cap">In het gesprek krijgt alleen de laatste vraag een markering, in de kleur van de stem. De verstuurknop volgt dezelfde stem.</p>
+<img src="markeringen.png"><p class="cap">Een staal: zes knoppen in beide stijlen en markeringen in lopende tekst, elk net anders. De knoppen zijn een tint dieper dan de markeringen, zodat ze opvallen zonder hard te worden.</p>
+<div class="g4"><img src="b-register-home-m.png"><img src="b-register-lijn-home-m.png"><img src="b-register-pam-m.png"><img src="b-register-lijn-sam-m.png"></div><p class="cap">Op de telefoon staan Pam en Sam als eerste twee regels, direct onder de kop.</p></body></html>'''
+open('bord-register-2.html', 'w').write(html)

diff --git a/analyse/55-spread-requiem-twee-voorstellen.md b/analyse/55-spread-requiem-twee-voorstellen.md
@@ -135,3 +135,34 @@ Geen beeld en geen ceremonie. Alleen de inhoudsopgave rechtsonder in de spread w
 - Welke route, of welke onderdelen uit beide?
 - Is het koele van de spread gewenst, nu Pam eerder warmte kreeg (hout)?
 - Hoe verhoudt dit zich tot de gekozen Couture-richting (49–52)? Vervangt het die, of is het een tweede spoor?
+
+## Keuze en tweede ronde (ontwerper, 9 november 2026)
+
+**Besluit:** dit wordt een derde spoor, naast de kamer (17–43) en de minimalistische versie Couture (47–52). Gekozen is **B · Het register**.
+
+Opdrachten van de ontwerper:
+- Het markeren uit de chat wordt huisstijl, ook in knoppen, in willekeurige varianten.
+- Pam en Sam zijn op de homepage even sterk uitgelicht, elk met een eigen markering.
+- De zwarte knop is te hard. Kies een variatie op het verloop, of een lijn met een lichtere manier van opvallen.
+
+Uitwerking (preview `presentatie/route-katern/overzicht-register-2.png`):
+- **Markeren als systeem.** Elke markering is een eigen variant van het verloop:
+  - de hoek varieert tussen 84 en 112 graden;
+  - de kleurstops verschuiven;
+  - soms loopt het verloop andersom.
+  - De variant ligt per element vast en verandert niet bij elk bezoek. Zo trekt een markeerstift nooit twee keer dezelfde streep, en blijft het toch rustig.
+- **Pam en Sam even sterk.**
+  - Pam markeert van lavendel naar ijs.
+  - Sam markeert van ijs naar mint.
+  - Ze staan als eerste twee regels van het register, met een kleine ruimte ertussen.
+- **Twee knopstijlen, ter keuze:**
+  - *Verloop:* de knop is gevuld met een markering, een tint dieper dan in de tekst.
+  - *Lijn:* een dunne lijn met een markeerstreep door de onderste tweederde van de tekst.
+  - De donkere tekst op de diepste knoptint haalt 7,7:1.
+- **In het gesprek** krijgt alleen de laatste vraag een markering, in de kleur van de stem. De verstuurknop volgt die stem.
+
+**Kritische lezing:**
+- Willekeur kan rommelig worden als er veel markeringen op één scherm staan. Houd het bij weinig markeringen tegelijk.
+- De lijnknop is het rustigst, maar op een telefoon is de streep klein. De verloopknop valt beter op.
+
+**Open:** welke knopstijl? En hoe verhoudt het register zich tot de kamer en Couture: wordt het de site, of blijft het een studie?

diff --git a/CLAUDE.md b/CLAUDE.md
@@ -68,5 +68,6 @@ Claude trekt van nature naar het meest waarschijnlijke, dus generieke, antwoord.
 - **Beweging (37):** alles rustig en comfortabel. Niets knippert. Overgangen vloeien over in elkaar (het oude vervaagt boven het nieuwe) en gaan nooit eerst naar leeg. Licht en vormen blijven binnen hun vlak. De lichtbaan hoort alleen in de koppen (de homepage als opener, en de onderwerppagina's, elk met een eigen lichtval) en in de chatvensters, niet in de rest van de vormgeving. Tekst en vlakken komen één keer zacht binnen; alleen de regel in de kop wordt getypt, tussenkoppen komen rustig binnen. Geen gimmicks.
 - **Nieuwe richting in onderzoek (47–48):** Couture met de kamer als gevoel (plafond, gedempt mauve, geen rood als hoofdkleur). De kleuren van opties 1, 2 en 3 zijn gekozen (zie 48). In het gesprek geldt de rangorde van de eerste kamer: Pam en Sam op de achtergrond, jouw tekst voorop.
 - **Couture gekozen (49–51, 7 november 2026):** zacht zand (muur #F0EADD, plafond #F9F6F0) als neutrale kamer, Pam in hout (#EEE3D5), Sam in papier (#EEEDEA). Literata voor de huisstijl (koppen, logo), Crimson Pro alleen voor Pam (wat zij zegt, haar logo), Jost voor de rest en Sam. Cursief bijna nooit. Knoppen: zacht gevuld in de huisstijl (#7A6D58), licht gevuld bij Pam en Sam (eigen muur iets donkerder). Klikbare site in `site/couture/`.
+- **Derde spoor: het register (55, 9 november 2026):** naast de kamer en Couture. Gebaseerd op de spread "Requiem" (Emergence Magazine Vol. 6, Studio Airport). De site als register met typemachineletter, en markeren (verloop lavendel, ijs en mint, in willekeurige maar vaste varianten) als huisstijl, ook in knoppen. Pam en Sam zijn even sterk uitgelicht; geen zwarte knoppen.
 - **Livegang (39):** open punten voor de echte site staan in `analyse/39-notities-livegang.md`, waaronder de focusmodus voor leden.
 - **Nooit** naar buiten "therapie" noemen. Nooit verzonnen reviews of testimonials gebruiken.
